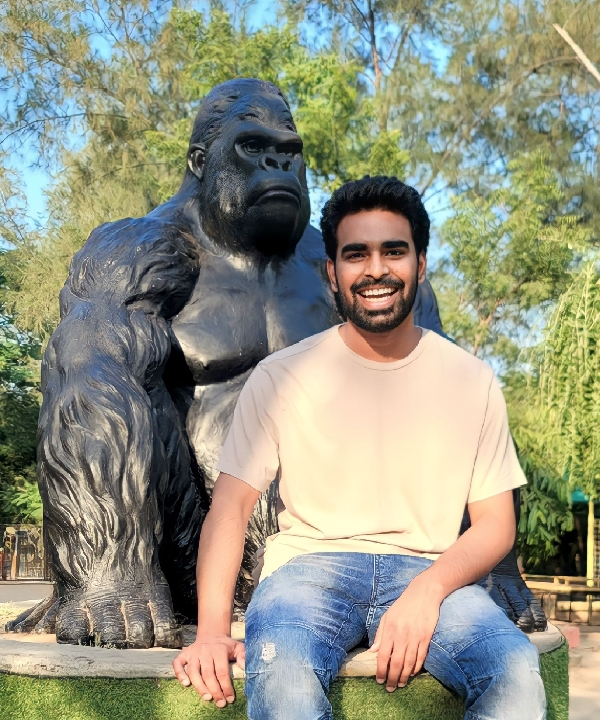
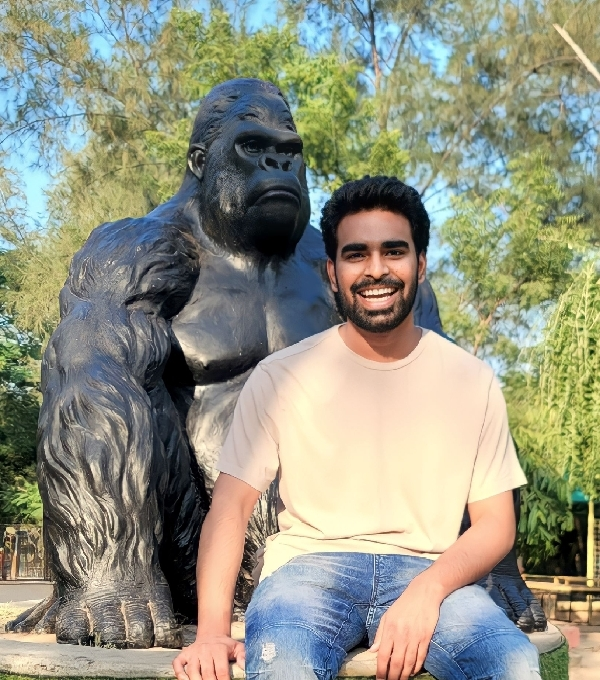
fix: Responsiveness of About me Section Personal Image

diff --git a/assets/css/style.css b/assets/css/style.css
@@ -549,87 +549,6 @@ section .container {
 }
 
 /*--------------------------------------------------------------
-# Testimonials
---------------------------------------------------------------*/
-.testimonials .testimonials-carousel,
-.testimonials .testimonials-slider {
-  overflow: hidden;
-}
-
-.testimonials .testimonial-item {
-  box-sizing: content-box;
-  min-height: 320px;
-}
-
-.testimonials .testimonial-item .testimonial-img {
-  width: 90px;
-  border-radius: 50%;
-  margin: -40px 0 0 40px;
-  position: relative;
-  z-index: 2;
-  border: 6px solid rgba(255, 255, 255, 0.12);
-}
-
-.testimonials .testimonial-item h3 {
-  font-size: 18px;
-  font-weight: bold;
-  margin: 10px 0 5px 45px;
-  color: #fff;
-}
-
-.testimonials .testimonial-item h4 {
-  font-size: 14px;
-  color: #999;
-  margin: 0 0 0 45px;
-}
-
-.testimonials .testimonial-item .quote-icon-left,
-.testimonials .testimonial-item .quote-icon-right {
-  color: rgba(255, 255, 255, 0.25);
-  font-size: 26px;
-}
-
-.testimonials .testimonial-item .quote-icon-left {
-  display: inline-block;
-  left: -5px;
-  position: relative;
-}
-
-.testimonials .testimonial-item .quote-icon-right {
-  display: inline-block;
-  right: -5px;
-  position: relative;
-  top: 10px;
-}
-
-.testimonials .testimonial-item p {
-  font-style: italic;
-  margin: 0 15px 0 15px;
-  padding: 20px 20px 60px 20px;
-  background: rgba(255, 255, 255, 0.1);
-  position: relative;
-  border-radius: 6px;
-  position: relative;
-  z-index: 1;
-}
-
-.testimonials .swiper-pagination {
-  margin-top: 20px;
-  position: relative;
-}
-
-.testimonials .swiper-pagination .swiper-pagination-bullet {
-  width: 12px;
-  height: 12px;
-  opacity: 1;
-  background-color: rgba(255, 255, 255, 0.3);
-}
-
-.testimonials .swiper-pagination .swiper-pagination-bullet-active {
-  background-color: #18d26e;
-}
-
-/*--------------------------------------------------------------
 # Resume
 --------------------------------------------------------------*/
 
@@ -868,6 +787,37 @@ section .container {
   max-height: 269px;
   object-fit: cover;
   opacity: 0.9;
+}
+
+/* Responsive BreakPoints for Personal Image */
+/* Mobile */
+@media only screen and (min-width: 411px) and (min-height: 731px) {
+  .personal-img {
+    width: 100%;
+    height: 400px;
+    object-fit: cover;
+    opacity: 0.9;
+    transition-timing-function: ease-out;
+    transition: 0.5s;
+  }
+}
+/* Tablet */
+@media only screen and (min-width: 768px) and (min-height: 1024px) {
+  .personal-img {
+    height: 400px;
+  }
+}
+/* Laptop */
+@media only screen and (min-width: 1366px) and (min-height: 768px) {
+  .personal-img {
+    height: 540px;
+  }
+}
+/* Laptop */
+@media only screen and (min-width: 1920px) and (min-height: 1080px) {
+  .personal-img {
+    height: 520px;
+  }
 }
 
 .portfolio #portfolio-flters {

diff --git a/index.html b/index.html
@@ -72,7 +72,7 @@
 
       <div class="row">
         <div class="col-lg-4" data-aos="fade-right">
-          <img src="assets/img/me.jpg" loading="lazy" class="img-fluid" alt="">
+          <img src="assets/img/me.jpg" loading="lazy" class="personal-img" alt="">
         </div>
         <div class="col-lg-8 pt-4 pt-lg-0 content" data-aos="fade-left">
           <h3>Software Developer</h3>
@@ -109,9 +109,7 @@
         </div>
       </div>
 
-    </div><!-- End About Me -->
-
-    <!-- ======= Skills  ======= -->
+      <!-- ======= Skills  ======= -->
     <div class="skills container">
 
       <div class="section-title">
@@ -174,13 +172,13 @@
         </div>
     </div><!-- End Skills -->
 
-    <!-- ======= Skills ======= -->
-    <div class="interests container">
+     <!-- ======= Skills ======= -->
+     <div class="interests container">
 
       <div class="section-title">
         <h2>Skills</h2>
       </div>
-  <!-- Skills -->
+      <!-- Skills -->
       <div class="row">
           
         <div class="col-lg-3 col-md-4  col-sm-6 col-6 mt-4">
@@ -321,7 +319,9 @@
         </div>
       </div>
     </div>
-    <div class="interests container">
+
+     <!-- Interests -->
+     <div class="interests container">
       <div class="section-title">
         <h2>Interests</h2>
       </div>
@@ -371,6 +371,7 @@
         </div>         
       </div>  
     </div>
+    <!-- End About Me -->
   </section>
 
   <!-- ======= Resume Section ======= -->

diff --git a/assets/js/portfolio.js b/assets/js/portfolio.js
@@ -47,7 +47,7 @@ new Swiper(".portfolio-details-slider", {
   speed: 400,
   loop: true,
   autoplay: {
-    delay: 3000,
+    delay: 2000,
     disableOnInteraction: false,
   },
   pagination: {
